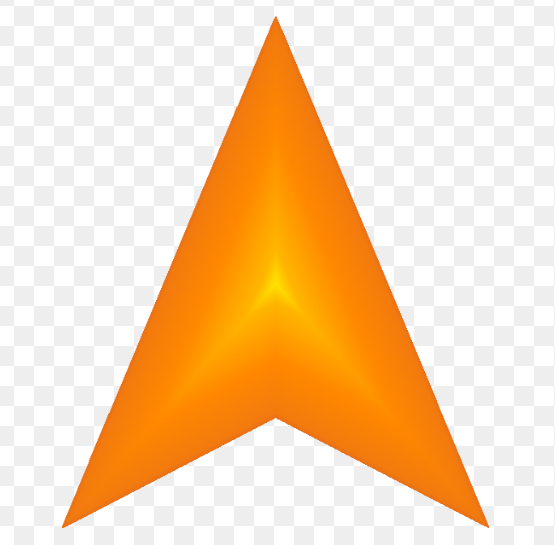
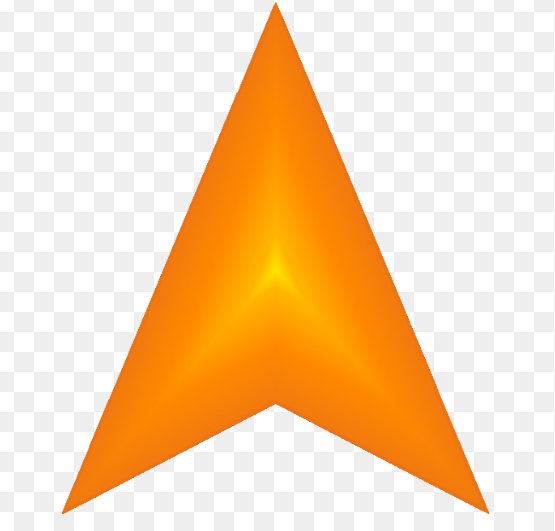
M3:WIP- users current location enabled

diff --git a/Client/src/Pages/Map.js b/Client/src/Pages/Map.js
@@ -1,4 +1,4 @@
-import React, { useEffect, useState, useRef } from "react";
+import React, { useEffect, useState, useRef, useContext } from "react";
 import { Col } from "react-bootstrap";
 import OnHoverScrollContainer from "../Components/CostumScrollBar/CostumScrollDiv";
 import * as tt from "@tomtom-international/web-sdk-maps";
@@ -6,13 +6,25 @@ import * as ttapi from "@tomtom-international/web-sdk-services";
 import "@tomtom-international/web-sdk-maps/dist/maps.css";
 import { convertToPoints, drawRoute, addDestination } from "../Utils/mapFuncs";
 import GpsArrow from "../media/gps-arrow-orange.png"
+import { MapContext } from "../Context/MapContext"
 
 function Map() {
   const mapEl = useRef()
   const [map, setMap] = useState({})
-  const [routeInfo, setRouteInfo] = useState({});
-  const [latitude, setLatitude] = useState(32.052797); // set to current location
+  const { setRouteInfo } = useContext(MapContext)
+  const [currentLocationMsg, setCurrentLocationMsg] = useState("");
+  const [latitude, setLatitude] = useState(32.052797);
   const [longitude, setLongitude] = useState(34.772238);
+
+  useEffect(() => {
+      navigator.geolocation.watchPosition((position) => {
+          setCurrentLocationMsg(`Current location accurate to ${position.coords.accuracy}metres`)
+          setLatitude(position.coords.latitude)
+          setLongitude(position.coords.longitude);
+        }, (error) => {
+          setCurrentLocationMsg("To find current location turn on location in settings")
+      })
+  }, [])
 
   useEffect(() => {
     const origin = { lng: longitude, lat: latitude }
@@ -31,9 +43,6 @@ function Map() {
     setMap(tomtomMap);
 
     const addMarker = () => {
-      // const popUpOffset = { bottom: [0, -25] }
-      // const popUp = new tt.Popup({ offset: popUpOffset }).setHTML(<div style={{ color: "black"}}>"This is you!"</div>)
-
       const pin = document.createElement("div");
       pin.innerHTML = `<img src=${GpsArrow} height="20px" width="25px"/>`;
       pin.className = "locationMarker";
@@ -50,16 +59,12 @@ function Map() {
         setLongitude(lngLat.lng)
         setLatitude(lngLat.lat);
       })
-
-      // marker.setPopup(popUp).togglePopup()
     }
     addMarker()
 
 
     const sortDestinations = (locations) => {
-      const destinationPoints = locations.map(destination => {
-        return convertToPoints(destination)
-      })
+      const destinationPoints = locations.map(destination => convertToPoints(destination))
 
       const callParams = {
         key: process.env.REACT_APP_TOMTOM_API_KEY,
@@ -77,12 +82,8 @@ function Map() {
               drivingTime: result.response.routeSummary.travelTimeInSeconds,
             }
           });
-          resultsArr.sort((a, b) => {
-            return a.drivingTime - b.drivingTime
-          })
-          const sortedLocations = resultsArr.map(result => {
-            return result.location
-          })
+          resultsArr.sort((a, b) => a.drivingTime - b.drivingTime)
+          const sortedLocations = resultsArr.map(result => result.location)
           resolve(sortedLocations)
         })
       })
@@ -113,6 +114,11 @@ function Map() {
     return () => tomtomMap.remove();
   }, [longitude, latitude])
 
+  const beginRide = () => {
+    // localStorage.setItem("destinations", destinations)
+    console.log("hi")
+  }
+
   return (
     <Col
       className="map-container center-content shadow-lg pt-2 text-white"
@@ -121,9 +127,8 @@ function Map() {
       lg={7}
     >
       <OnHoverScrollContainer>
-        <Col>Where to?</Col>
-        
         {map && <>
+          {currentLocationMsg && <h3>{currentLocationMsg}</h3>}
           {/* <Col className="search-bar">
             <input
               type="text"
@@ -141,6 +146,7 @@ function Map() {
             />
           </Col> */}
           <div ref={mapEl} className="map" />
+          <div><button onClick={beginRide}>Go</button></div>
         </>}
       </OnHoverScrollContainer>
     </Col>
@@ -148,3 +154,6 @@ function Map() {
 }
 
 export default Map;
+// const popUpOffset = { bottom: [0, -25] }
+// const popUp = new tt.Popup({ offset: popUpOffset }).setHTML(<div style={{ color: "black"}}>"This is you!"</div>)
+// marker.setPopup(popUp).togglePopup()

diff --git a/Client/src/Components/MainContent/SearchForm.jsx b/Client/src/Components/MainContent/SearchForm.jsx
@@ -1,4 +1,4 @@
-import React, { useState, useEffect } from "react";
+import React, { useState, useEffect, useContext } from "react";
 import "./SearchForm";
 import api from "../../Utils/API";
 import { Button, Container } from "react-bootstrap";
@@ -15,6 +15,7 @@ import Typography from "@mui/material/Typography";
 import OutlinedInput from "@mui/material/OutlinedInput";
 import { scroller } from "react-scroll";
 import PodcastCard from "../PodcastData/PodcastCard";
+import { MapContext } from "../../Context/MapContext";
 // {
 //   FormData: {
 //       startingPoint: "hadera",
@@ -26,6 +27,8 @@ import PodcastCard from "../PodcastData/PodcastCard";
 // }
 
 export default function SearchForm() {
+  const { routeInfo } = useContext(MapContext)
+  console.log(routeInfo)
   const [request, setRequest] = useState(false);
   const [startingPoint, setStartingPoint] = useState("");
   const [destination, setDestination] = useState("");

diff --git a/Client/src/Context/MapContext.js b/Client/src/Context/MapContext.js
@@ -1,0 +1,17 @@
+import React, { createContext, useState } from "react";
+
+export const MapContext = createContext({
+  routeInfo: {},
+  setRouteInfo: () => {},
+});
+
+const MapProvider = ({ children }) => {
+    const [routeInfo, setRouteInfo] = useState({})
+    return (
+        <MapContext.Provider value={{ routeInfo, setRouteInfo }}>
+            {children}
+        </MapContext.Provider>
+    );
+};
+
+export default MapProvider;

diff --git a/Client/src/index.js b/Client/src/index.js
@@ -3,11 +3,14 @@ import ReactDOM from "react-dom";
 import "./index.css";
 import App from "./App";
 import UserProvider from "./Context/AuthContext";
+import MapProvider from "./Context/MapContext";
 
 ReactDOM.render(
   <React.StrictMode>
     <UserProvider>
-      <App />
+      <MapProvider>
+        <App />
+      </MapProvider>
     </UserProvider>
   </React.StrictMode>,
   document.getElementById("root")

diff --git a/Client/src/App.css b/Client/src/App.css
@@ -32,13 +32,14 @@
 .map{
   margin-top: 5px;
   height: 500px;
-  width: 700px;
+  width: 750px;
+  overflow: hidden;
 }
 
 .locationMarker {
   display: flex;
   justify-content: center;
-  padding: 6px;
+  padding: 7px 5px;
   background-color: #F6F6F6;
   border: 1px solid #F28830;
   border-radius: 25px;

diff --git a/Client/src/Context/AuthContext.js b/Client/src/Context/AuthContext.js
@@ -4,6 +4,7 @@ export const UserContext = createContext({
   email: "",
   auth: false,
 });
+
 const token = localStorage.getItem("token");
 const UserProvider = ({ children }) => {
   const [user, setUser] = useState({
